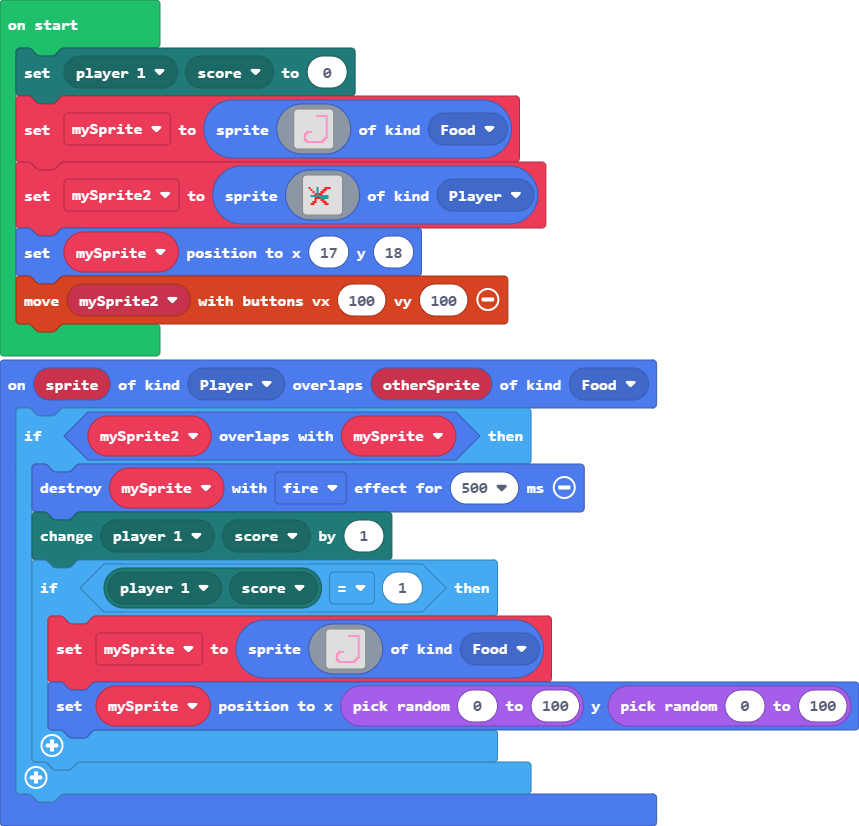
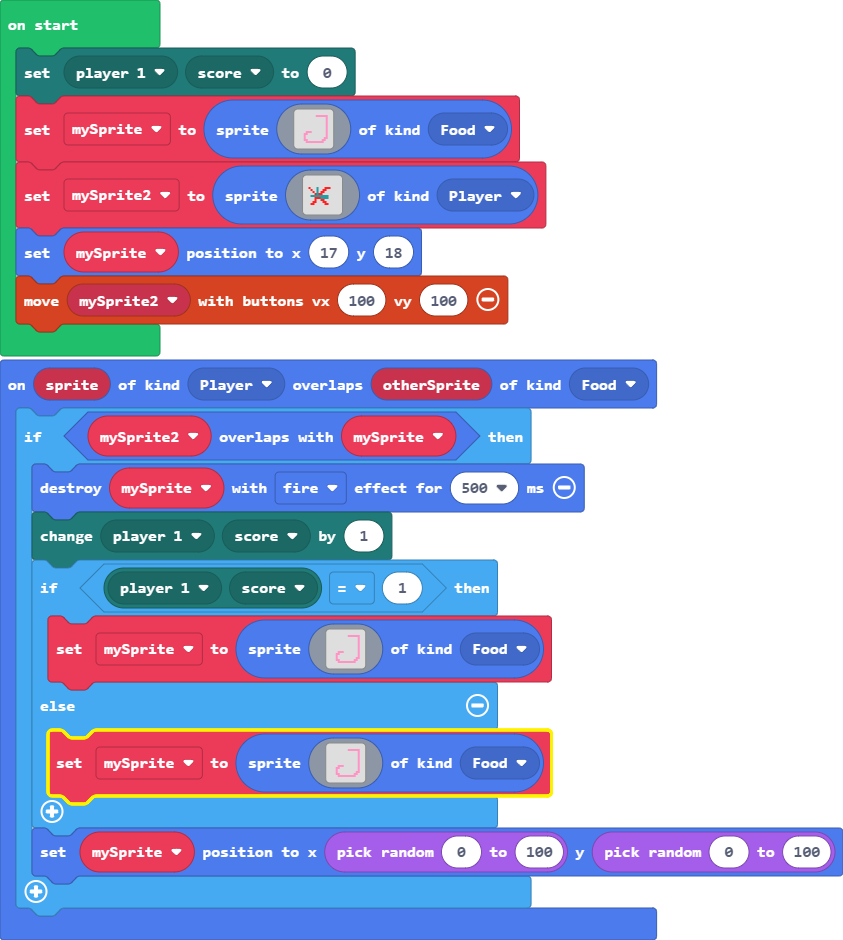
Update main.blocks, main.ts

diff --git a/main.ts b/main.ts
@@ -4,8 +4,10 @@ sprites.onOverlap(SpriteKind.Player, SpriteKind.Food, function (sprite, otherSpr
         mp.changePlayerStateBy(mp.playerSelector(mp.PlayerNumber.One), MultiplayerState.score, 1)
         if (mp.getPlayerState(mp.playerSelector(mp.PlayerNumber.One), MultiplayerState.score) == 1) {
             mySprite = sprites.create(assets.image`myImage3`, SpriteKind.Food)
-            mySprite.setPosition(randint(0, 100), randint(0, 100))
+        } else {
+            mySprite = sprites.create(assets.image`myImage3`, SpriteKind.Food)
         }
+        mySprite.setPosition(randint(0, 100), randint(0, 100))
     }
 })
 let mySprite2: Sprite = null
